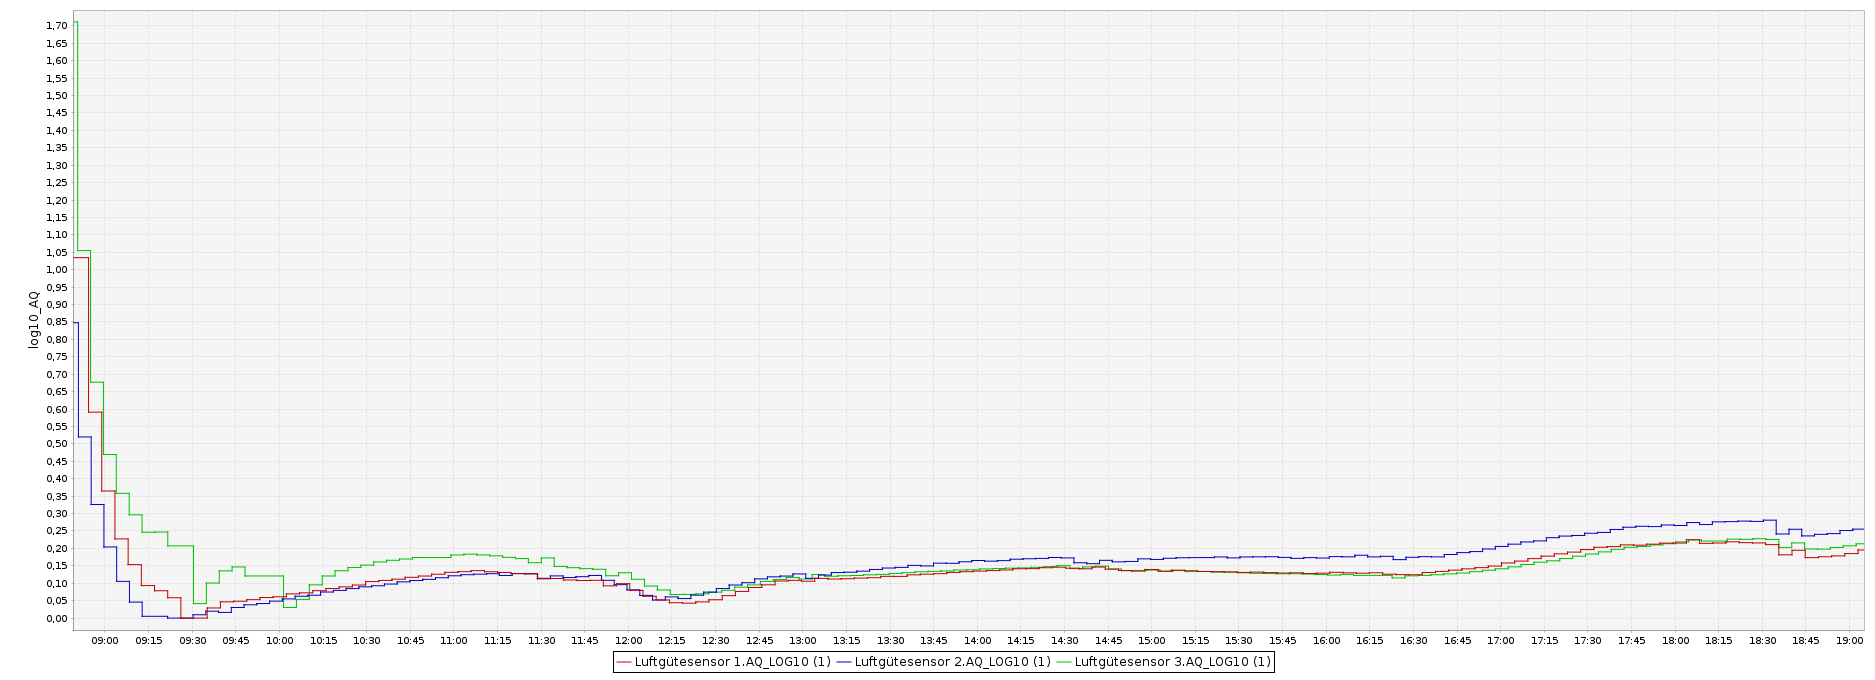
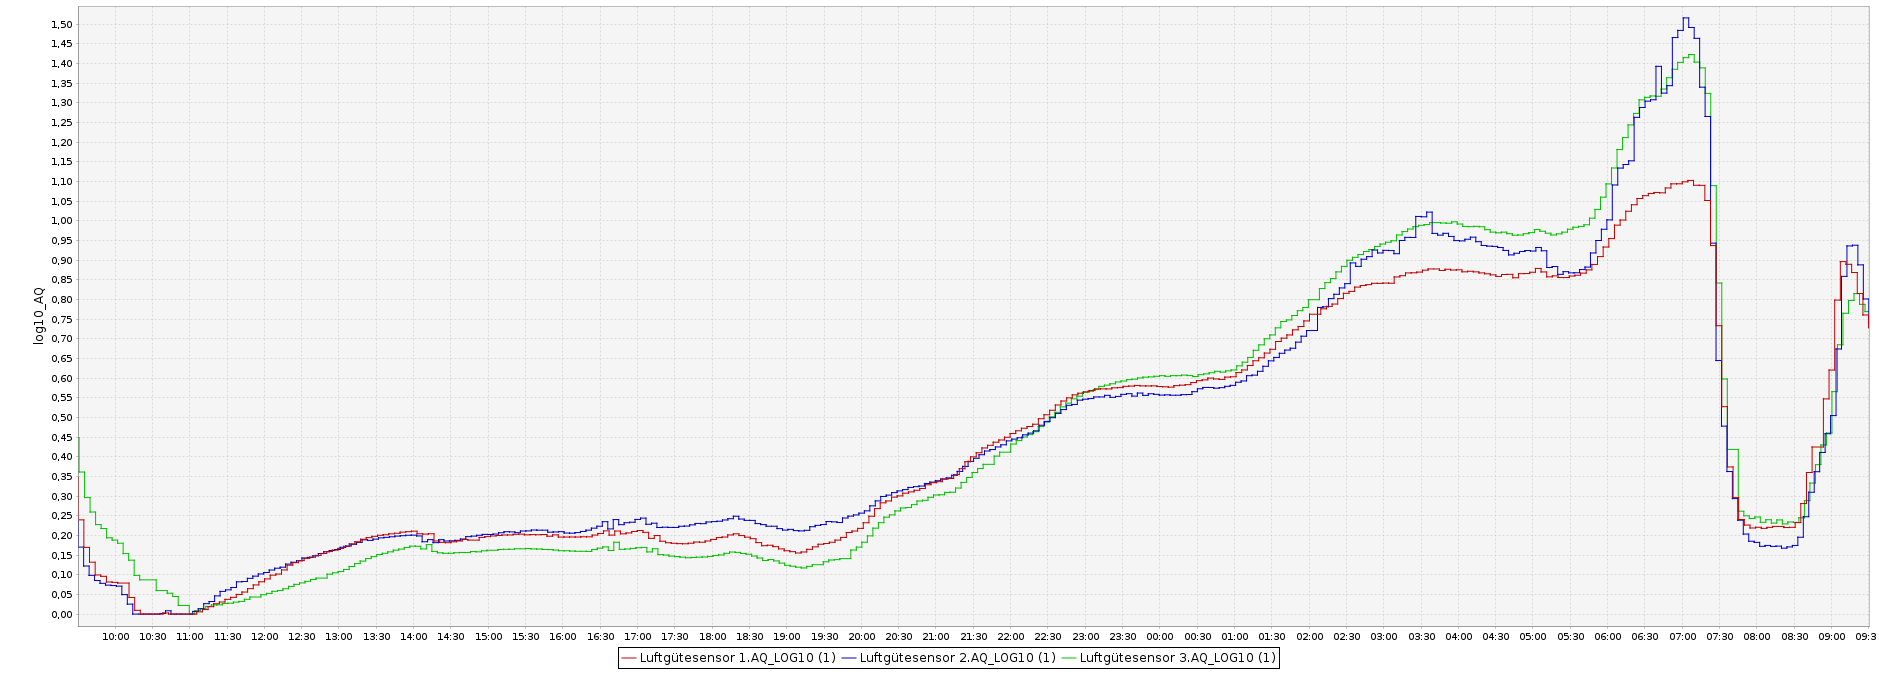
HB-UNI-Sensor1-AQ-BME680_KF: Zwischenergebnisse als CCU Historian Diagramme

diff --git a/AsksinPP_developments/sketches/HB-UNI-Sensor1-AQ-BME680_KF/README.md b/AsksinPP_developments/sketches/HB-UNI-Sensor1-AQ-BME680_KF/README.md
@@ -5,7 +5,9 @@
 <br/>
 <br/>
 <br/>Update 07. Februar 2021: Konvergenzkriterium für den Temperatur-Regressionskoeffizienten 'alpha' wurde angepasst.
-
+<br/>Update 04. März 2021: Zwischenergebnisse sind als [CCU Historian Zeitdiagramme](./Kalman_Filter/ccu-historian_histograms/) verfügbar.
+<br/>
+<br/>
 
 
 
@@ -154,7 +156,7 @@
 
 ![pic](Images/AQ_LOG10_versus_NDIR_SCD30_CO2.png)
 
-- zusätzlich zum AQ_LOG10 Luftqualitätsverlauf wird der CO2 Gehalt der Luft gemessen mit einem Sensirion SCD30 NDIR CO2 Sensor 
+- zusätzlich zum AQ_LOG10 Luftqualitätsverlauf von 3 nebeneinanderstehenden Sensoren wird der CO2 Gehalt der Luft gemessen mit einem Sensirion SCD30 NDIR CO2 Sensor 
 
 
 ## Benötiger Sketch
